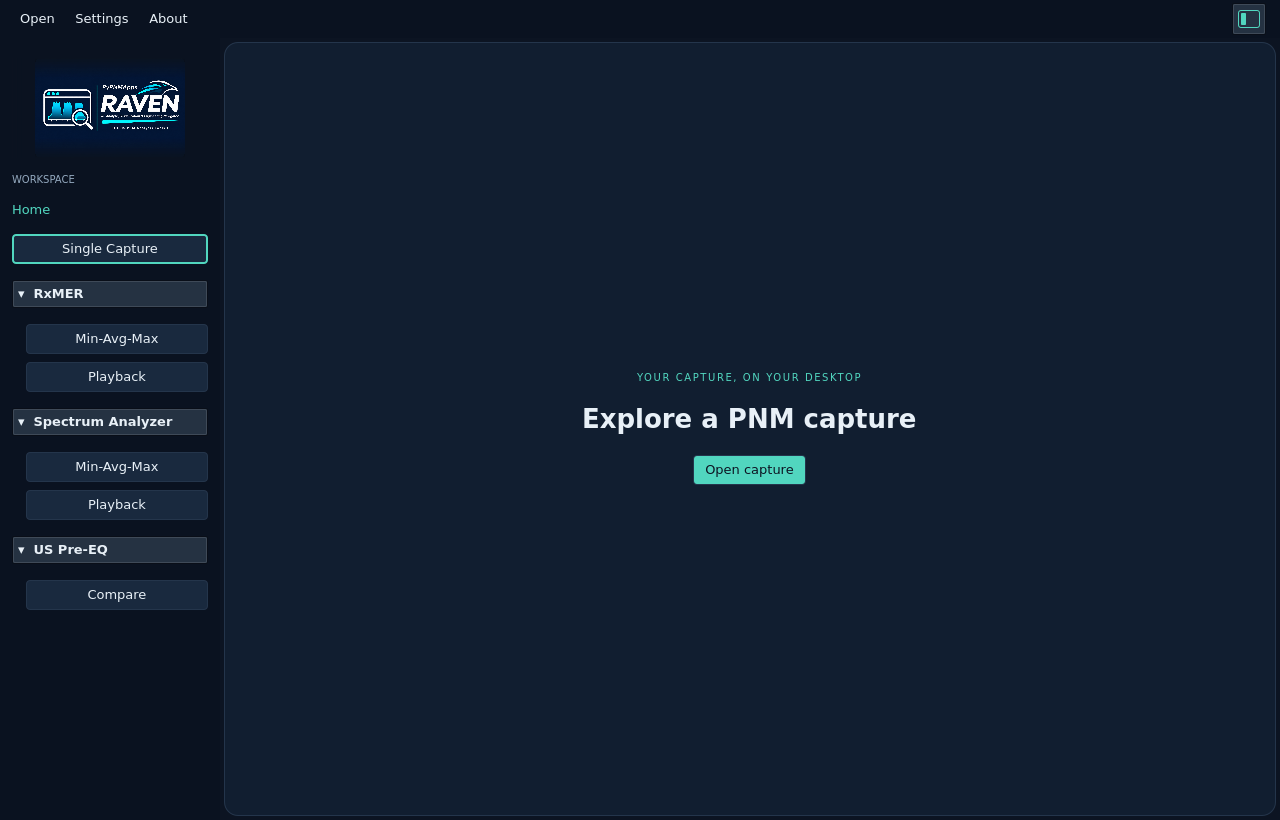
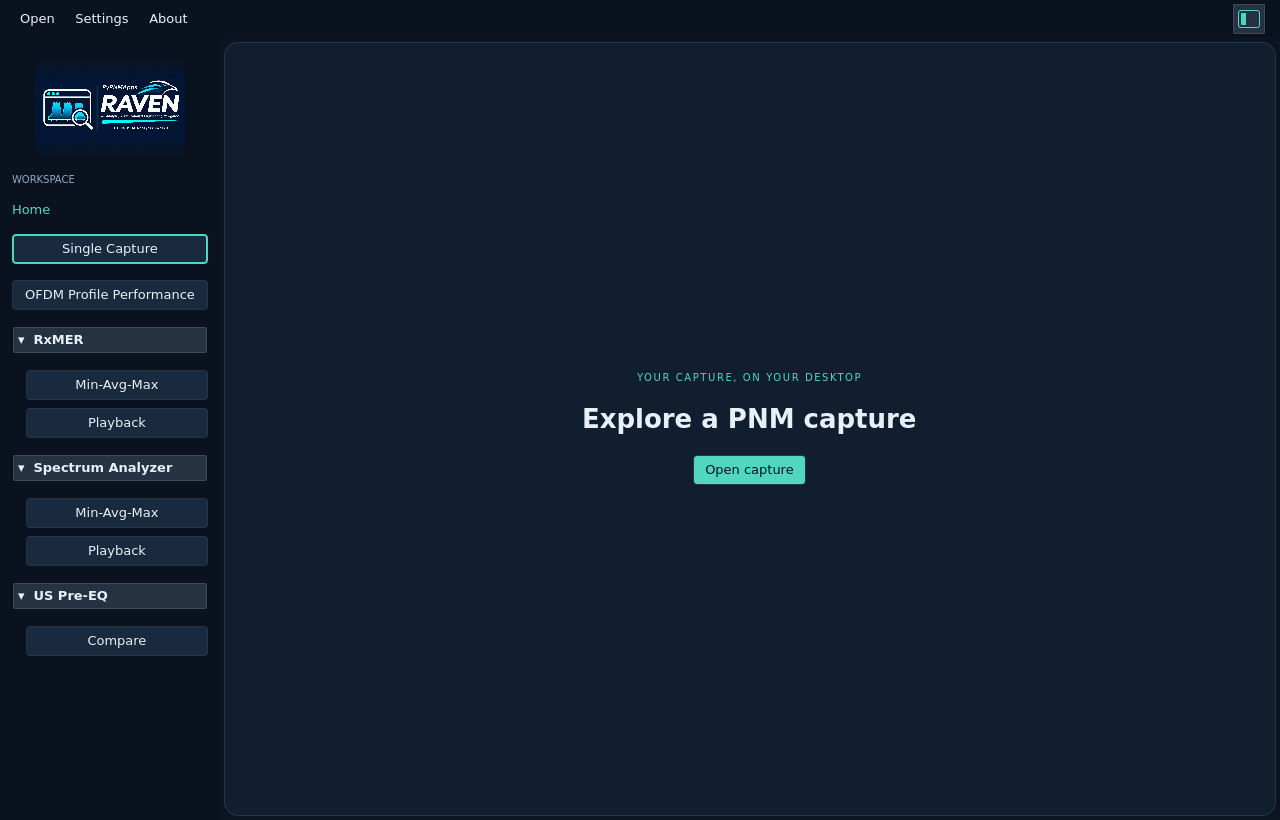
Feature: Refresh Home images and release layout - Replace outdated dark and light Home screenshots - Include current navigation and full toolbar - Add repeatable native Home screenshot capture - Let release paragraphs flow across available width - Update README and screenshot guidance - Tests: Pass 

Changed region(s): [[0.0, 0.3354, 0.1875, 0.8232]]

diff --git a/apps/qt/qml/OfdmProfileSmoke.qml b/apps/qt/qml/OfdmProfileSmoke.qml
@@ -5,7 +5,8 @@
 import QtQuick
 
 // Explicit developer smoke: --ofdm-smoke PROFILE_URL RXMER_URL CHANNEL_URL_OR_NONE
-// OUTPUT_PREFIX [--mce]. Original local files only; no network or installation.
+// OUTPUT_PREFIX [--mce] [--home-only]. Home-only skips capture loading and FEC.
+// Original local files only; no network or installation.
 Timer {
     id: smoke
     required property var service
@@ -25,7 +26,9 @@ Timer {
     function fail(message) { console.error("OFDM_SMOKE_FAILED: " + message); stop(); Qt.exit(1) }
     function snapshot(suffix, next) {
         stop()
-        const target = suffix.indexOf("-fec-") >= 0 ? workspace.resultsSurface : surface
+        const homeOnly = Qt.application.arguments.indexOf("--home-only") >= 0
+        const target = homeOnly ? applicationWindow.contentItem.parent
+            : suffix.indexOf("-fec-") >= 0 ? workspace.resultsSurface : surface
         if (!target.grabToImage(function(image) {
             if (!image.saveToFile(Qt.application.arguments[argumentIndex+4] + suffix)) {
                 smoke.fail("Could not save native workspace frame")
@@ -41,6 +44,13 @@ Timer {
         const args=Qt.application.arguments
         if (stage===0) {
             if (args.length < argumentIndex+5) { fail("Missing smoke arguments"); return }
+            if (args.indexOf("--home-only") >= 0) {
+                applicationWindow.selectWorkspace("single")
+                applicationWindow.navigationVisible=true
+                theme.preference=1
+                stage=20
+                return
+            }
             applicationWindow.selectWorkspace("ofdm")
             theme.preference=1
             service.choose_file("profile",args[argumentIndex+1]);stage=1
@@ -78,6 +88,15 @@ Timer {
             theme.preference=2;stage=10
         } else if (stage===10) {
             snapshot("-fec-light.png",11)
+        } else if (stage===20) {
+            snapshot("-dark.png",21)
+        } else if (stage===21) {
+            theme.preference=2;stage=22
+        } else if (stage===22) {
+            snapshot("-light.png",23)
+        } else if (stage===23) {
+            console.log("HOME_SCREENSHOTS_OK")
+            stop();Qt.quit()
         } else if (stage===11) {
             console.log("OFDM_SMOKE_OK "+service.result_json)
             stop();Qt.quit()

diff --git a/docs/release/release-notes.md b/docs/release/release-notes.md
@@ -1,20 +1,12 @@
 # RAVEN {{TAG}}
 
-**Under development.** Download the package for your system under **Assets**.
-The native Qt viewer includes the same-version `pnm-decode` CLI and manual;
-Ubuntu installs the CLI as a separate package dependency. Rust, Python and a
-separate Qt SDK are not needed to run the packaged application. APT installs
-required Ubuntu system libraries and may need network access.
+**Under development.** Download the package for your system under **Assets**. The native Qt viewer includes the same-version `pnm-decode` CLI and manual; Ubuntu installs the CLI as a separate package dependency. Rust, Python and a separate Qt SDK are not needed to run the packaged application. APT installs required Ubuntu system libraries and may need network access.
 
 ## Choose your download
 
 {{ASSET_TABLE}}
 
-Sizes above are compressed download bytes expressed in decimal MB, not installed
-sizes. A complete release has five installers and `SHA256SUMS` for verification.
-Build reports and standalone CLI archives remain workflow artifacts linked under
-[workflow results]({{RUNS_URL}}). GitHub's **Source code** ZIP/tar archives contain
-source, not installers.
+Sizes above are compressed download bytes expressed in decimal MB, not installed sizes. A complete release has five installers and `SHA256SUMS` for verification. Build reports and standalone CLI archives remain workflow artifacts linked under [workflow results]({{RUNS_URL}}). GitHub's **Source code** ZIP/tar archives contain source, not installers.
 
 ## Ubuntu 22.04 / 24.04 / 26.04 — x64
 
@@ -25,9 +17,7 @@ sha256sum --ignore-missing --check SHA256SUMS &&
 sudo apt install ./pnm-decode_{{VERSION}}_amd64.deb ./raven_{{VERSION}}_amd64.deb
 ```
 
-Launch **RAVEN** from the application menu, or run `raven`
-inside your graphical desktop session. The CLI is available as `pnm-decode`;
-read its manual with `man pnm-decode`.
+Launch **RAVEN** from the application menu, or run `raven` inside your graphical desktop session. The CLI is available as `pnm-decode`; read its manual with `man pnm-decode`.
 
 **CLI only:** install just `pnm-decode_{{VERSION}}_amd64.deb` using APT.
 
@@ -39,8 +29,7 @@ read its manual with `man pnm-decode`.
 sudo apt remove raven
 ```
 
-This leaves the separately owned CLI installed. To remove it too, run
-`sudo apt remove pnm-decode`.
+This leaves the separately owned CLI installed. To remove it too, run `sudo apt remove pnm-decode`.
 
 [Ubuntu installation and uninstall guide]({{SOURCE_URL}}/docs/install/ubuntu.md)
 
@@ -49,27 +38,19 @@ This leaves the separately owned CLI installed. To remove it too, run
 1. Download and run the **Windows x64 MSI installer** from the table.
 2. Select an installation folder and launch **RAVEN** from Start.
 
-The default per-machine location is `%ProgramFiles%\RAVEN`.
-Qt and Microsoft runtime DLLs are app-local. The bundled CLI is in that folder;
-the installer does not add it to PATH. From PowerShell at the default location:
+The default per-machine location is `%ProgramFiles%\RAVEN`. Qt and Microsoft runtime DLLs are app-local. The bundled CLI is in that folder; the installer does not add it to PATH. From PowerShell at the default location:
 
 ```powershell
 & "$env:ProgramFiles\RAVEN\pnm-decode.exe" --help
 ```
 
-For a standalone CLI without the viewer, use the Windows CLI ZIP from the
-[workflow artifacts]({{RUNS_URL}}), or [build from source]({{SOURCE_URL}}/docs/install/source.md).
+For a standalone CLI without the viewer, use the Windows CLI ZIP from the [workflow artifacts]({{RUNS_URL}}), or [build from source]({{SOURCE_URL}}/docs/install/source.md).
 
-The MSI is unsigned. Verify the project release and SHA-256 before approving
-Windows security/UAC prompts. If double-click does not start installation, use the
-[PowerShell installer/logging instructions]({{SOURCE_URL}}/docs/install/windows.md#windows-11-security-prompts-or-an-msi-that-does-not-open).
-These steps do not disable SmartScreen, Defender, or company policy.
+The MSI is unsigned. Verify the project release and SHA-256 before approving Windows security/UAC prompts. If double-click does not start installation, use the [PowerShell installer/logging instructions]({{SOURCE_URL}}/docs/install/windows.md#windows-11-security-prompts-or-an-msi-that-does-not-open). These steps do not disable SmartScreen, Defender, or company policy.
 
 **Update:** quit the viewer and install the new MSI (older MSIs upgrade; downgrades are refused).
 
-**Uninstall:** Settings → Apps → Installed apps → RAVEN → Uninstall,
-managed by Windows Installer. A separately extracted CLI
-is independent of the desktop installation.
+**Uninstall:** Settings → Apps → Installed apps → RAVEN → Uninstall, managed by Windows Installer. A separately extracted CLI is independent of the desktop installation.
 
 [Windows installation and uninstall guide]({{SOURCE_URL}}/docs/install/windows.md)
 
@@ -79,10 +60,7 @@ is independent of the desktop installation.
 2. Open the matching DMG and drag **RAVEN** onto **Applications**.
 3. Eject the disk image and open the app from Applications.
 
-The deployment target is macOS 13 or newer; native CI uses macOS 15 runners.
-The app includes Qt and the CLI. It is ad-hoc signed, without Developer ID
-signing or Apple notarization. If macOS blocks opening it, verify the download
-source and checksum, then use the operating system's application-approval controls.
+The deployment target is macOS 13 or newer; native CI uses macOS 15 runners. The app includes Qt and the CLI. It is ad-hoc signed, without Developer ID signing or Apple notarization. If macOS blocks opening it, verify the download source and checksum, then use the operating system's application-approval controls.
 
 The bundled CLI can be run from a terminal:
 
@@ -90,35 +68,23 @@ The bundled CLI can be run from a terminal:
 "/Applications/RAVEN.app/Contents/MacOS/pnm-decode" --help
 ```
 
-For a standalone CLI without the viewer, use the matching Darwin CLI archive from
-[workflow artifacts]({{RUNS_URL}}), or [build from source]({{SOURCE_URL}}/docs/install/source.md).
+For a standalone CLI without the viewer, use the matching Darwin CLI archive from [workflow artifacts]({{RUNS_URL}}), or [build from source]({{SOURCE_URL}}/docs/install/source.md).
 
 **Update:** quit the viewer and replace the app in Applications from the new DMG.
 
-**Uninstall:** quit the app and move it from Applications to Trash. Any separately
-extracted CLI remains independent.
+**Uninstall:** quit the app and move it from Applications to Trash. Any separately extracted CLI remains independent.
 
 [macOS installation and uninstall guide]({{SOURCE_URL}}/docs/install/macos.md)
 
 ## First use
 
-Choose **Open capture**, **Open**, Ctrl+O (Cmd+O on macOS), or drop one local PNM file onto the
-window. The viewer detects its type from its contents. It supports RxMER,
-Spectrum Analyzer, DS Channel Estimation, Histogram, FEC Summary, Modulation
-Profile, Constellation Display, current US pre-EQ and last-update US pre-EQ.
-Inspect the graph and use the export icon to save full-resolution JSON to a new
-file. Choose System, Dark or Light under Settings → System → Appearance.
-Viewing local captures works offline after setup; no modem connection is needed.
+Choose **Open capture**, **Open**, Ctrl+O (Cmd+O on macOS), or drop one local PNM file onto the window. The viewer detects its type from its contents. It supports RxMER, Spectrum Analyzer, DS Channel Estimation, Histogram, FEC Summary, Modulation Profile, Constellation Display, current US pre-EQ and last-update US pre-EQ. Inspect the graph and use the export icon to save full-resolution JSON to a new file. Choose System, Dark or Light under Settings → System → Appearance. Viewing local captures works offline after setup; no modem connection is needed.
 
-[Desktop guide and screenshots]({{SOURCE_URL}}/docs/ui/README.md) ·
-[Measurement gallery]({{SOURCE_URL}}/docs/ui/measurements.md) ·
-[CLI guide]({{SOURCE_URL}}/docs/cli/usage.md) ·
-[Complete JSON examples]({{SOURCE_URL}}/docs/cli/examples/README.md)
+[Desktop guide and screenshots]({{SOURCE_URL}}/docs/ui/README.md) · [Measurement gallery]({{SOURCE_URL}}/docs/ui/measurements.md) · [CLI guide]({{SOURCE_URL}}/docs/cli/usage.md) · [Complete JSON examples]({{SOURCE_URL}}/docs/cli/examples/README.md)
 
 ## Checksums and validation
 
-Download `SHA256SUMS` with your chosen package and compare its matching entry
-against your local SHA-256 result. Examples from the download directory:
+Download `SHA256SUMS` with your chosen package and compare its matching entry against your local SHA-256 result. Examples from the download directory:
 
 ```bash
 # Ubuntu
@@ -131,13 +97,6 @@ shasum -a 256 RAVEN-{{VERSION}}-macos-arm64.dmg
 Get-FileHash .\RAVEN-{{VERSION}}-windows-x64.msi -Algorithm SHA256
 ```
 
-These packages are assembled only after CodeQL, code checks, the complete native
-matrix, package integrity/size checks and installed-package lifecycle tests pass
-for this tag. Lifecycle tests cover install, open/render/export and removal on
-all three Ubuntu versions, Windows x64, macOS arm64 and macOS x64. See
-[this tag's workflow runs]({{RUNS_URL}}) for results. These development builds
-are not a release-readiness claim. Publication is automatic only after uploaded
-asset metadata and downloaded bytes are verified.
+These packages are assembled only after CodeQL, code checks, the complete native matrix, package integrity/size checks and installed-package lifecycle tests pass for this tag. Lifecycle tests cover install, open/render/export and removal on all three Ubuntu versions, Windows x64, macOS arm64 and macOS x64. See [this tag's workflow runs]({{RUNS_URL}}) for results. These development builds are not a release-readiness claim. Publication is automatic only after uploaded asset metadata and downloaded bytes are verified.
 
-[Packaging, licenses and prerequisites]({{SOURCE_URL}}/docs/release/packaging.md) ·
-[JSON field contracts]({{SOURCE_URL}}/docs/reference/formats.md)
+[Packaging, licenses and prerequisites]({{SOURCE_URL}}/docs/release/packaging.md) · [JSON field contracts]({{SOURCE_URL}}/docs/reference/formats.md)

diff --git a/docs/release/partial-notes.md b/docs/release/partial-notes.md
@@ -1,8 +1,6 @@
 # RAVEN {{TAG}} — Partial release
 
-**Under development — CI failed.** Only the platforms below passed their native
-build, package integrity/size and installed lifecycle checks. Other platforms
-failed or were unavailable; the workflow remains failed.
+**Under development — CI failed.** Only the platforms below passed their native build, package integrity/size and installed lifecycle checks. Other platforms failed or were unavailable; the workflow remains failed.
 
 Unavailable platforms: **{{UNAVAILABLE_PLATFORMS}}**.
 
@@ -10,10 +8,7 @@ Unavailable platforms: **{{UNAVAILABLE_PLATFORMS}}**.
 
 {{ASSET_TABLE}}
 
-Download the matching installer and `SHA256SUMS`. These packages use the same
-version {{VERSION}}. Uploaded metadata and re-downloaded bytes were verified
-before publication. This partial release is a **prerelease**, not the latest
-stable release, so automatic stable-update checks do not offer it.
+Download the matching installer and `SHA256SUMS`. These packages use the same version {{VERSION}}. Uploaded metadata and re-downloaded bytes were verified before publication. This partial release is a **prerelease**, not the latest stable release, so automatic stable-update checks do not offer it.
 
 Install/update/uninstall instructions:
 
@@ -23,5 +18,4 @@ Install/update/uninstall instructions:
 
 [Workflow results]({{RUNS_URL}}) · [Desktop user guide]({{SOURCE_URL}}/docs/ui/README.md)
 
-Published assets are immutable. A later fix uses a new version/tag rather than
-adding missing platforms to this public release.
+Published assets are immutable. A later fix uses a new version/tag rather than adding missing platforms to this public release.

diff --git a/docs/development/screenshots.md b/docs/development/screenshots.md
@@ -89,3 +89,21 @@ results pairs under `docs/ui/measurements/ofdm-profile-performance/images/`.
 The results image captures the real popup's counter content. Use supplied CH-EST
 and `--mce --ofdm-profiles=0,1,2,3` with the bundled single captures; do not manufacture
 counter values or substitute QML test mocks for the documentation pictures.
+
+## Refresh the Home pair
+
+The existing native harness can capture Home without loading inputs or running
+FEC. After building, run from the repository root on the Linux development host:
+
+```bash
+QT_QPA_PLATFORM=offscreen QT_QUICK_BACKEND=software \
+LD_LIBRARY_PATH="$PWD/local/qt/6.8.3/gcc_64/lib" \
+apps/qt/target/debug/raven --ofdm-smoke none none none \
+"$PWD/docs/ui/images/home/home" --home-only
+```
+
+Require `HOME_SCREENSHOTS_OK`. Review both themes for the expanded navigation,
+including OFDM Profile Performance. The command replaces the existing Home pair;
+do not keep dated duplicate PNGs. Before removing other images, check documentation,
+QML and packaging references and update any remaining links. Keep active measurement
+screenshots and original branding resources.

diff --git a/docs/ui/README.md b/docs/ui/README.md
@@ -45,7 +45,7 @@ Expand **RxMER** or **Spectrum Analyzer** for **Min-Avg-Max** and **Playback**.
 <picture>
   <source media="(prefers-color-scheme: dark)" srcset="images/home/home-dark.png">
   <source media="(prefers-color-scheme: light)" srcset="images/home/home-light.png">
-  <img alt="Starting screen with left navigation pane open and the Open, Settings and About toolbar" src="images/home/home-dark.png" width="1000">
+  <img alt="Starting screen with OFDM Profile Performance in the open navigation pane and the Open, Settings and About toolbar" src="images/home/home-dark.png" width="1000">
 </picture>
 
 1. Drop one local capture file anywhere on the window, or choose **Open capture**,

diff --git a/README.md b/README.md
@@ -30,7 +30,7 @@ its graph, and export decoded JSON. The native Qt interface uses a Rust backend.
 <picture>
   <source media="(prefers-color-scheme: dark)" srcset="docs/ui/images/home/home-dark.png">
   <source media="(prefers-color-scheme: light)" srcset="docs/ui/images/home/home-light.png">
-  <img alt="RAVEN starting screen with Single Capture, RxMER, Spectrum Analyzer and US Pre-EQ navigation" src="docs/ui/images/home/home-dark.png" width="1000">
+  <img alt="RAVEN starting screen with Single Capture, OFDM Profile Performance, RxMER, Spectrum Analyzer and US Pre-EQ navigation" src="docs/ui/images/home/home-dark.png" width="1000">
 </picture>
 
 ## Start here
